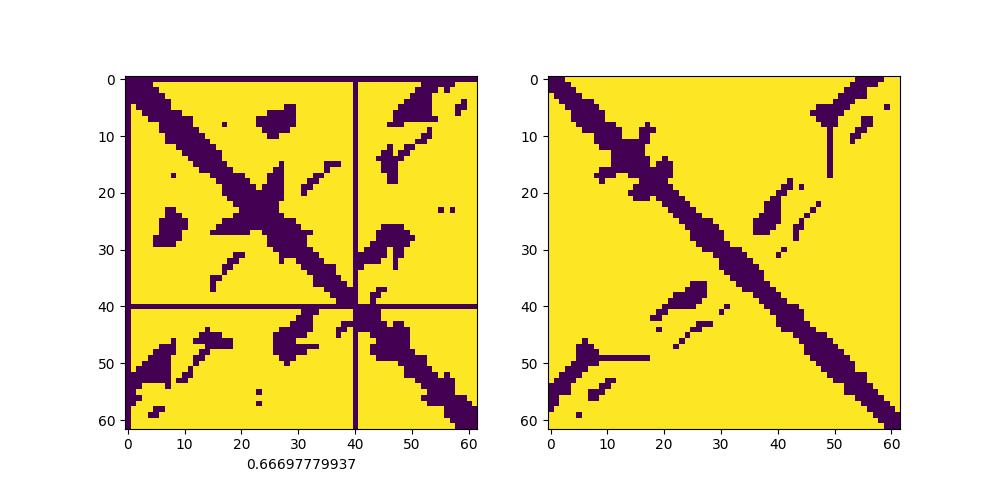
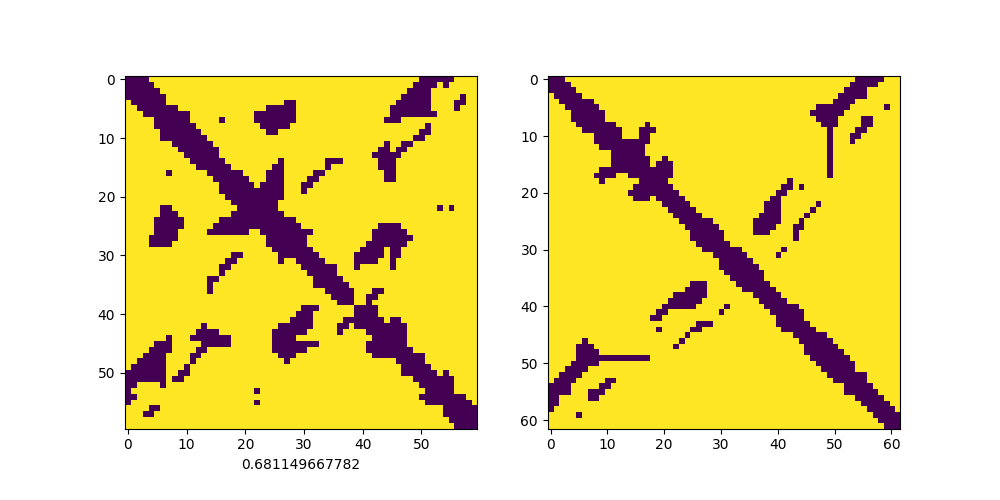
done p19

diff --git a/feature_generation/make_test/puzzles/p19.raw_data/compare_contacts5.py b/feature_generation/make_test/puzzles/p19.raw_data/compare_contacts5.py
@@ -1,5 +1,6 @@
 import sys,os
 sys.path.append('/home/leexa/pymol/RNA/ENTIRE_RNA_ONLY/')
+sys.path.append('../')
 import numpy as np
 import alignment
 import matplotlib.pyplot as plt
@@ -23,6 +24,7 @@ def get_mat(i):
     f1= open(i,'r')
     seq = ''
     temp_sol = {}
+    counter =1
     for line in f1:
         if line[17:20].strip() in ['A','U','G','C','GUA','CYT','ADE','URI','RU3','URA','RG3','RC5']:
             if line[12:16].strip() == 'P':
@@ -30,8 +32,10 @@ def get_mat(i):
                 cord1 = np.float(line[30:38].strip())
                 cord2 = np.float(line[38:46].strip())
                 cord3 = np.float(line[46:54].strip())
-                temp_sol [(int(line[22:26].strip()),line[17:20].strip())]=\
+                temp_sol [(counter,line[17:20].strip())]=\
                      np.array([cord1,cord2,cord3])
+            if line[12:16].strip() == "C5'":
+                counter += 1
     length = sorted(temp_sol)[-1][0] 
     first_resi =  1
     mat = np.zeros((length,length))
